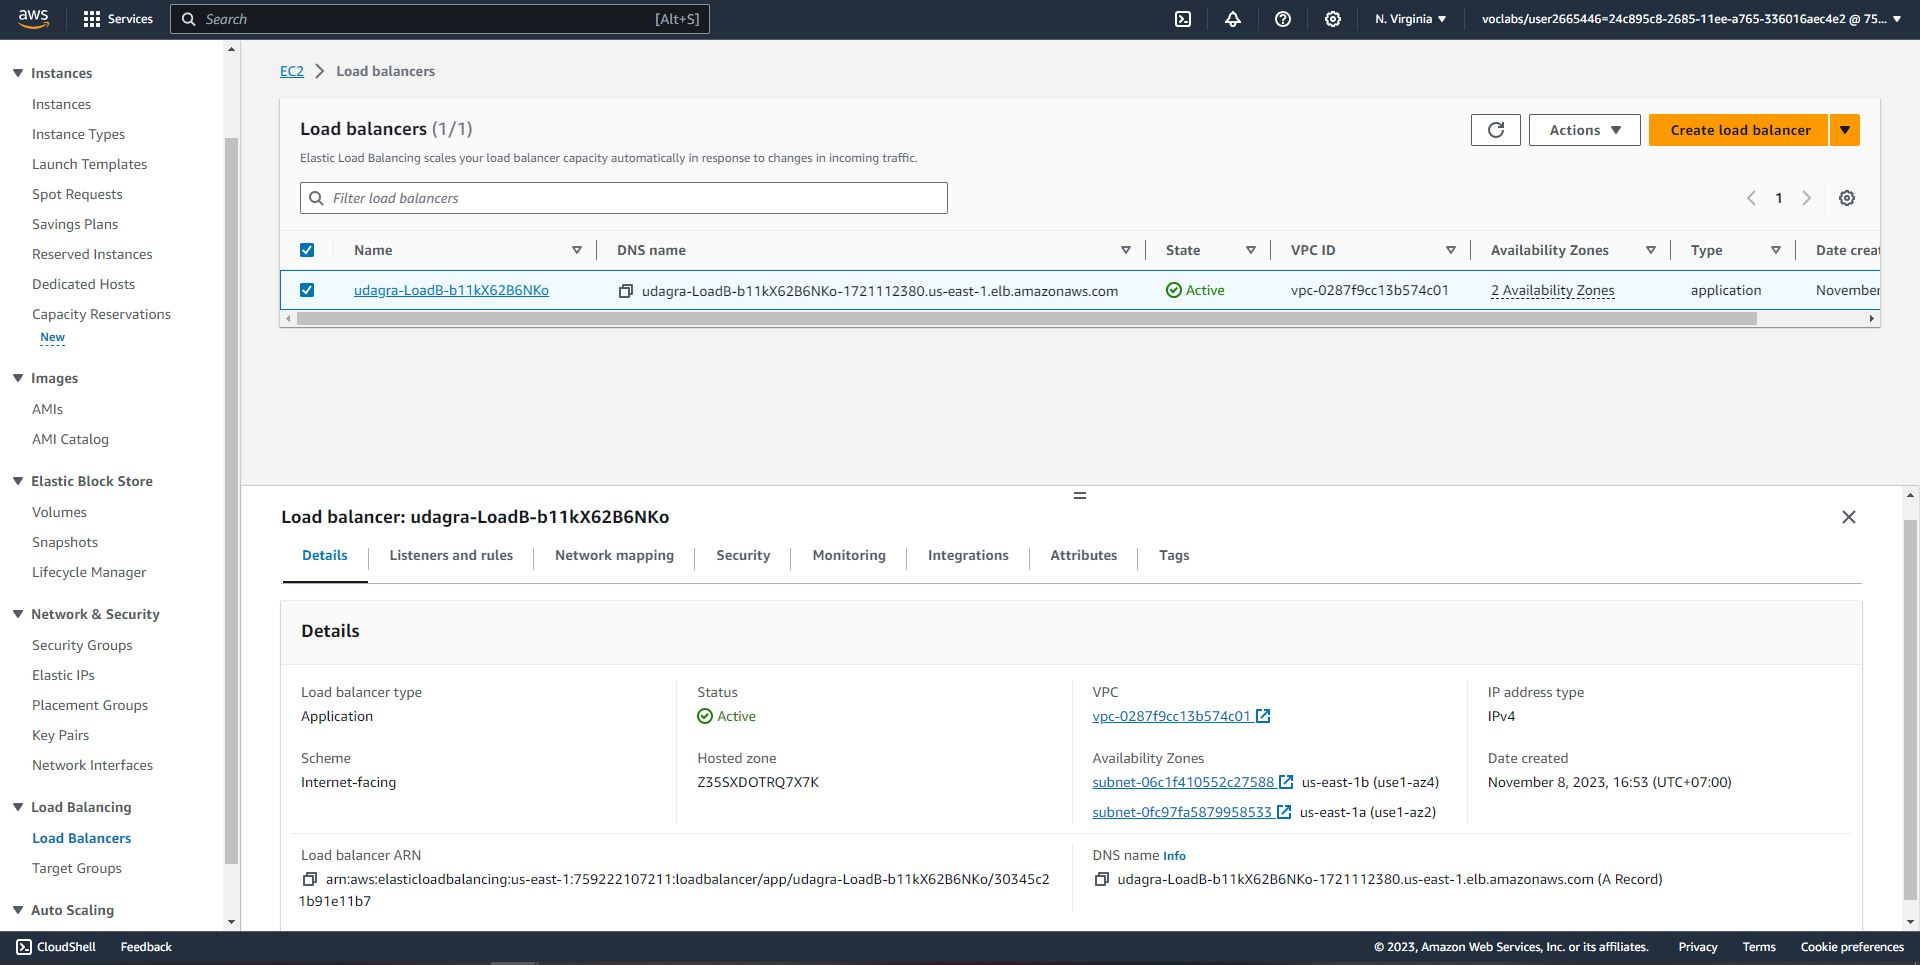
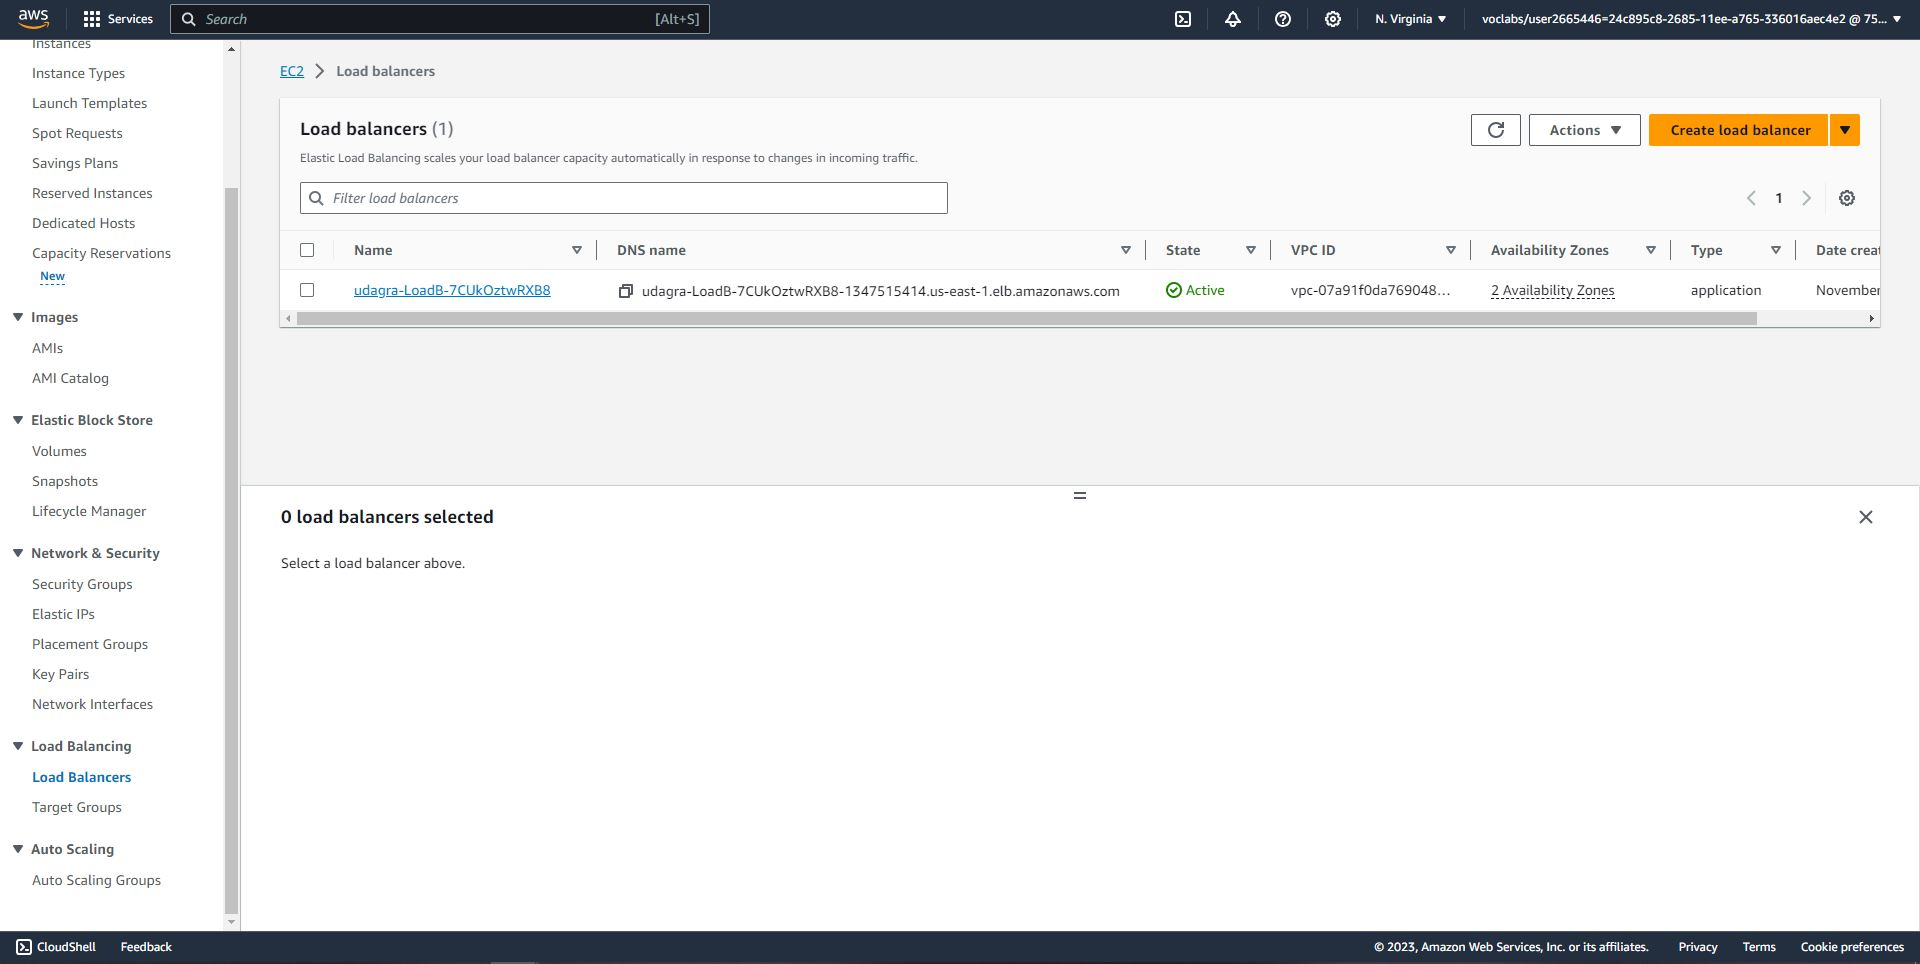
Update source
Update code, fix error 502

diff --git a/starter/README.md b/starter/README.md
@@ -39,4 +39,4 @@
    ```
  
 ## Other considerations
-http://udagra-LoadB-b11kX62B6NKo-1721112380.us-east-1.elb.amazonaws.com
+http://udagra-loadb-7cukoztwrxb8-1347515414.us-east-1.elb.amazonaws.com/
